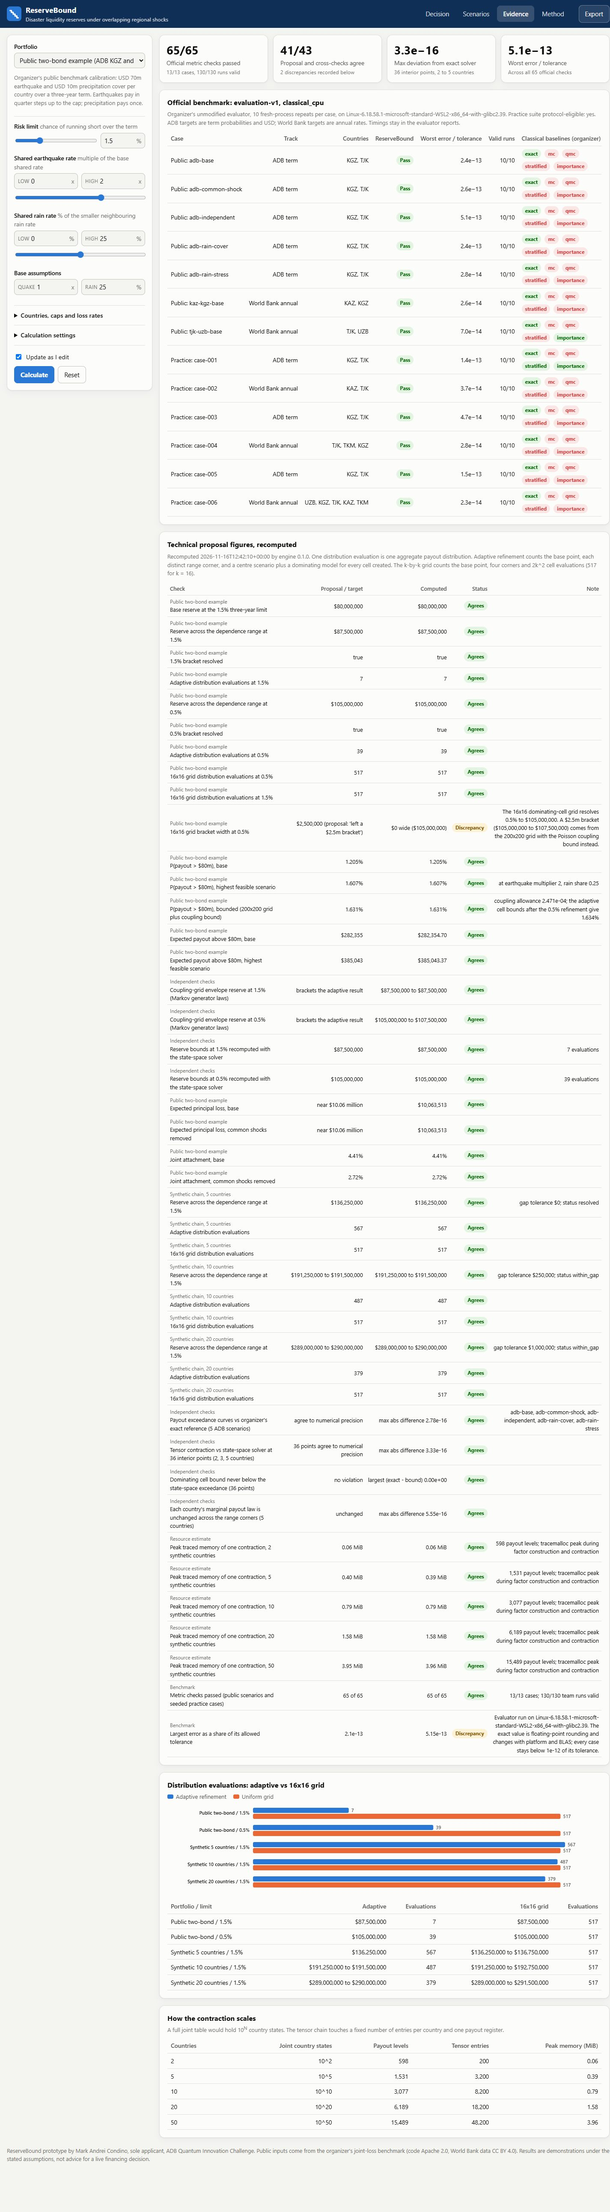
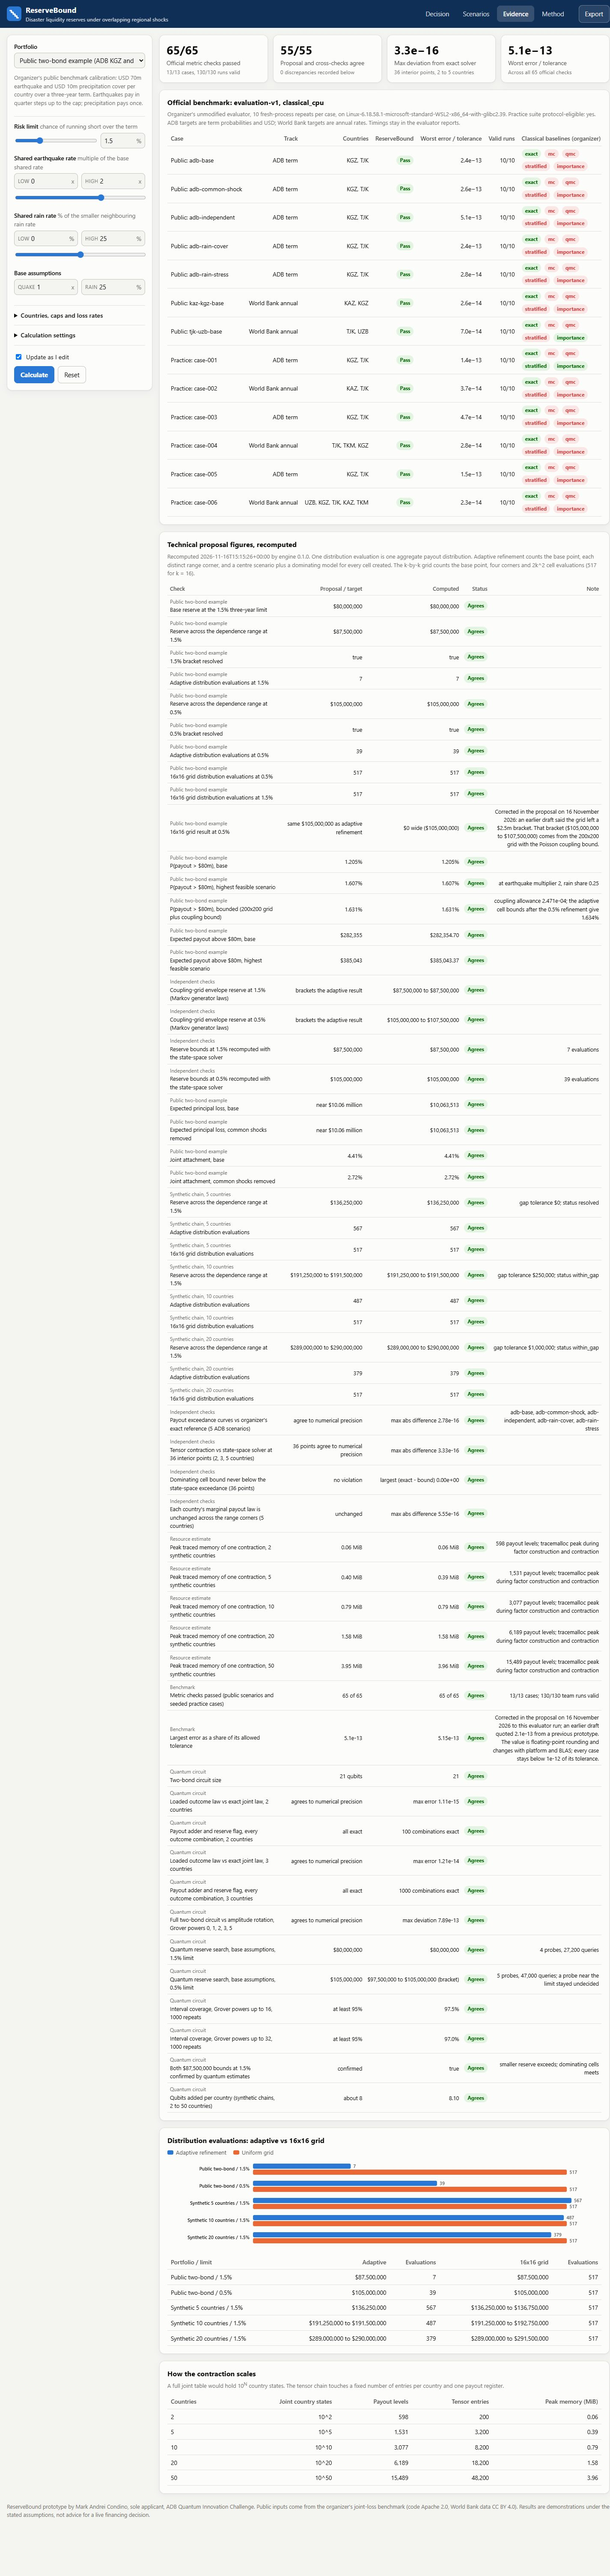
Refresh sample outputs and screenshots

diff --git a/results/samples/public-two-bond-1.5pct.md b/results/samples/public-two-bond-1.5pct.md
@@ -1,6 +1,6 @@
 # Reserve report: Public two-bond example (ADB 2026 KGZ and TJK bonds)
 
-Sizing Disaster Liquidity Reserves under Overlapping Regional Shocks. Prepared with the reserve engine 0.1.0 on 2026-11-16T13:43:57+00:00. Applicant: Mark Andrei Condino (sole applicant).
+Sizing Disaster Liquidity Reserves under Overlapping Regional Shocks. Prepared with the reserve engine 0.1.0 on 2026-11-16T15:16:42+00:00. Applicant: Mark Andrei Condino (sole applicant).
 
 ## Result
 
@@ -54,7 +54,5 @@ Shared earthquake multiplier: 0 to 2. Shared rain share: 0% to 25%. Base point: 
 - Supporting scenario lies in the range and preserves marginal rates: pass (shared earthquake rate 2 x base, shared rain 25% of the smaller neighbouring rain rate)
 - Certified bound is never below an observed feasible scenario: pass (largest (observed - bound) 0.00e+00)
 - Independent state-space solver agrees at the base and supporting scenarios: pass (max abs exceedance difference 5.55e-17)
-- Recorded validation (2026-11-16T12:42:10+00:00): 41 of 43 checks agree with the proposal targets
-  - Discrepancy: 16x16 grid bracket width at 0.5%: target $2,500,000 (proposal: 'left a $2.5m bracket'), computed $0 wide ($105,000,000)
-  - Discrepancy: Largest error as a share of its allowed tolerance: target 2.1e-13, computed 5.15e-13
+- Recorded validation (2026-11-16T15:15:26+00:00): 55 of 55 checks agree with the proposal targets
 - Official evaluation-v1 evaluator (classical_cpu): 13/13 cases and 65/65 metric checks pass
